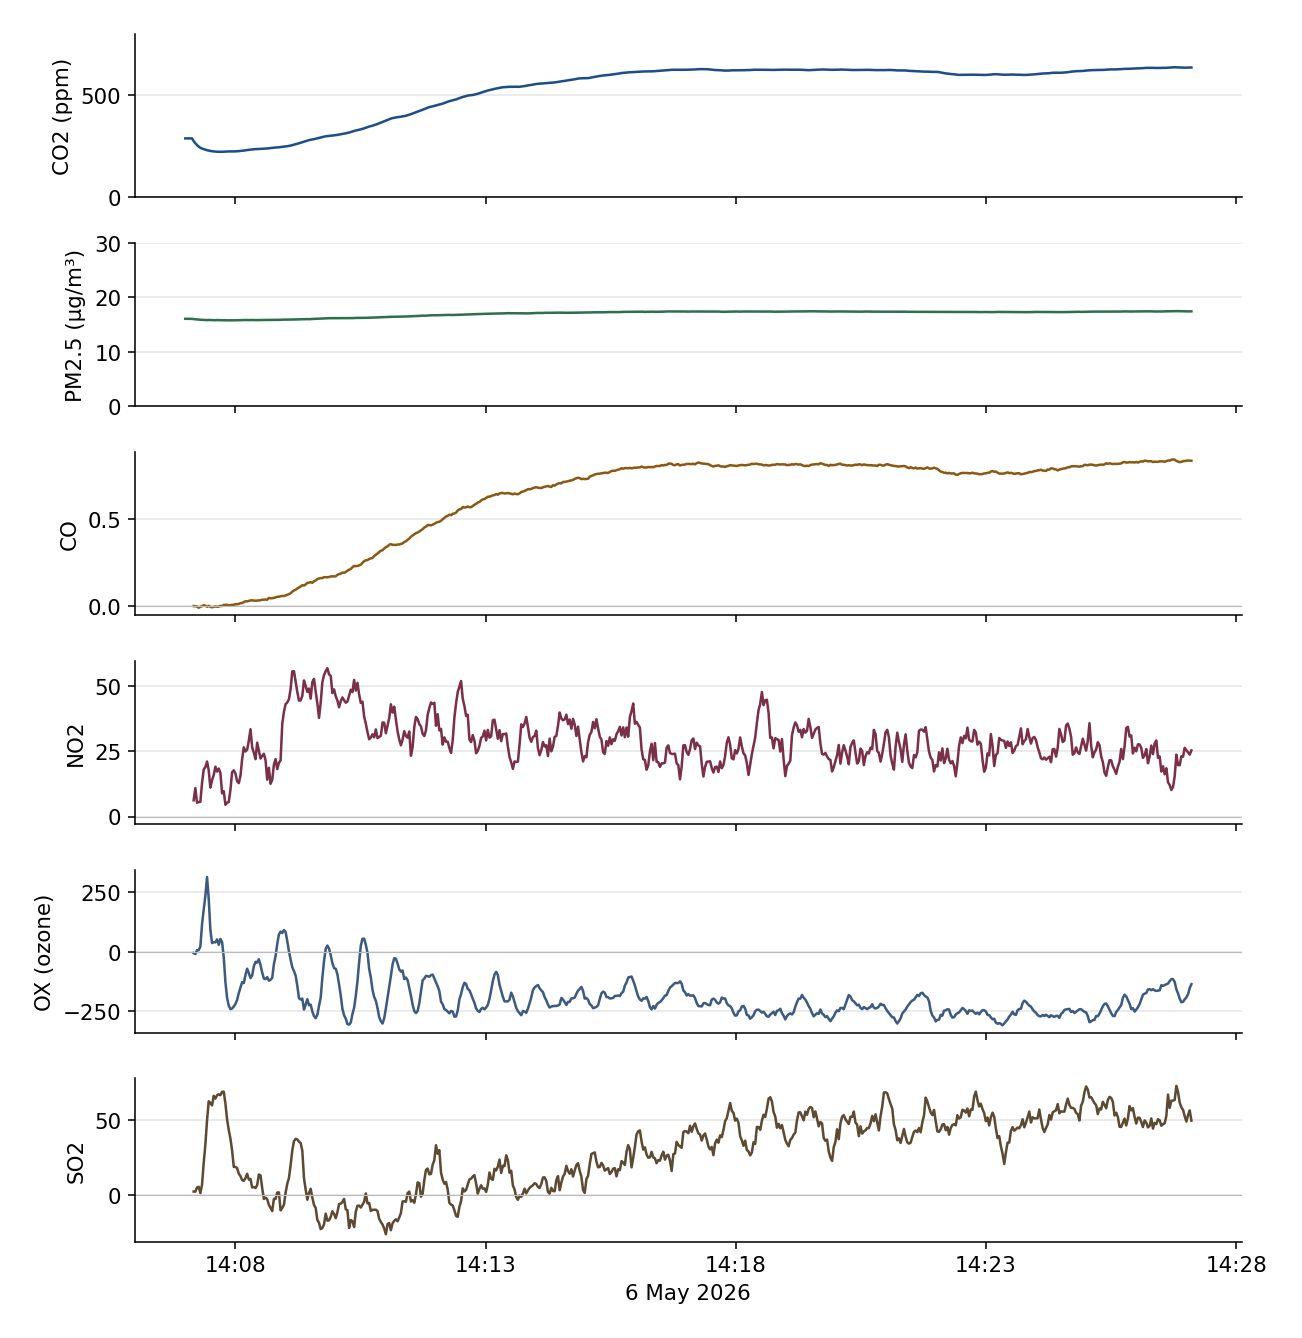
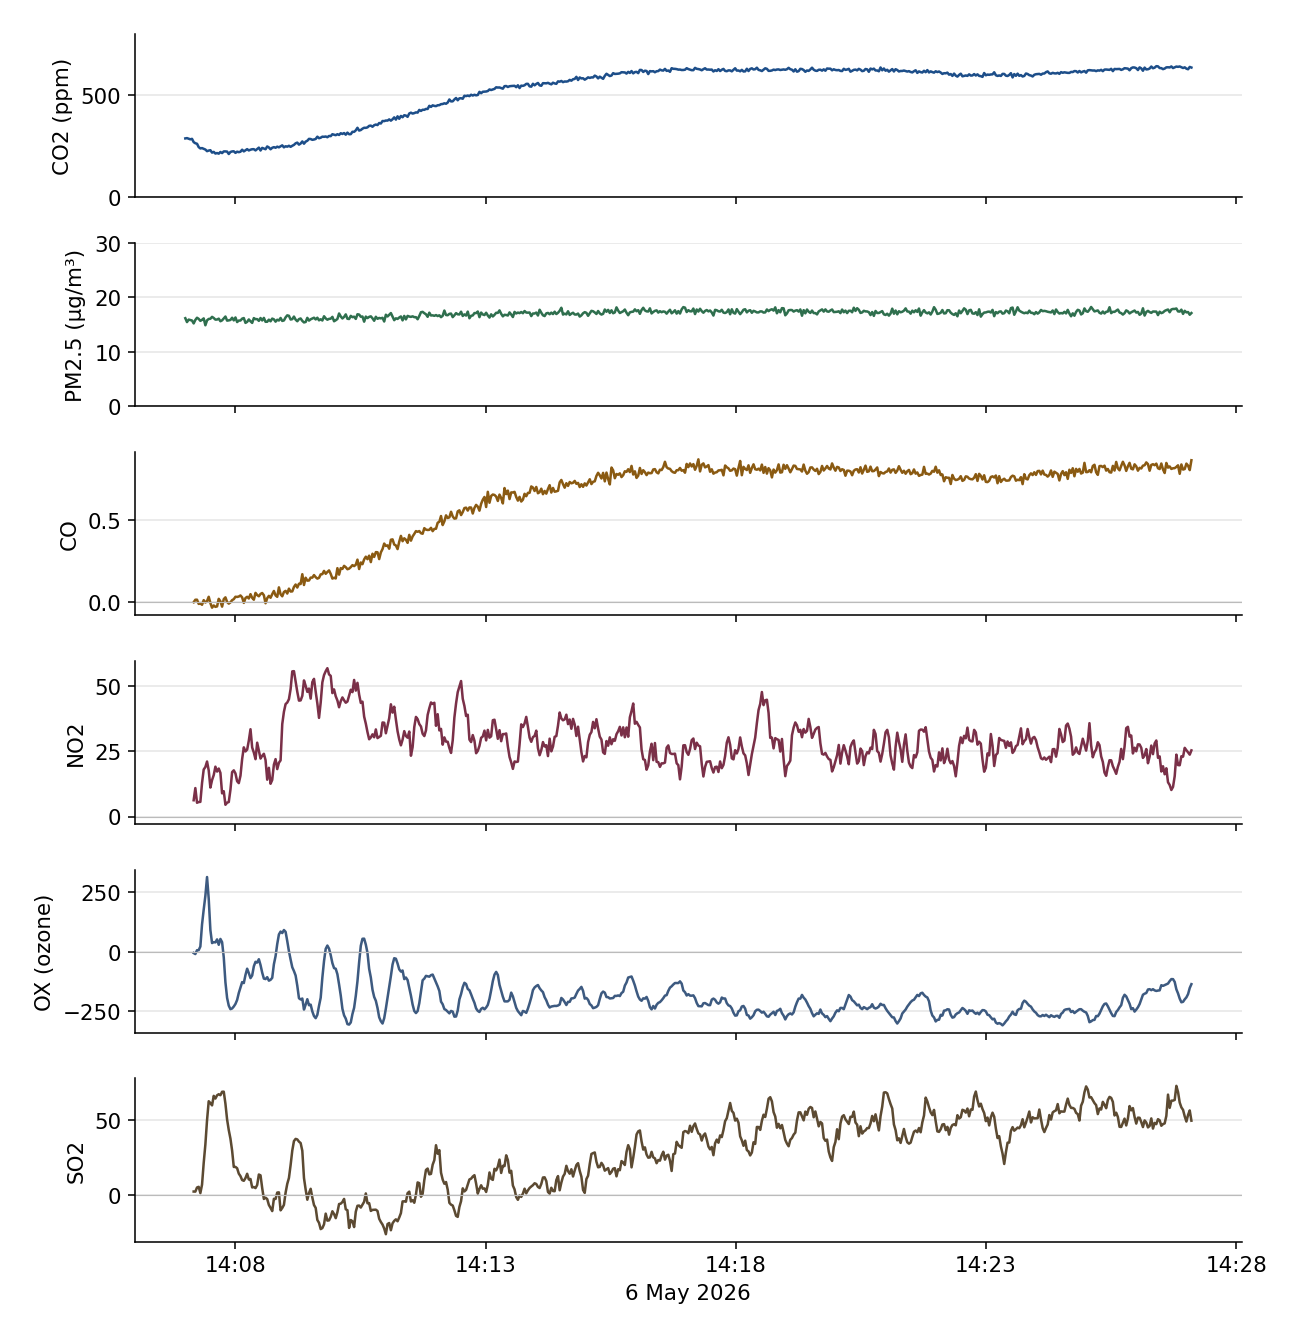
b

diff --git a/_portfolio/0a-air.md b/_portfolio/0a-air.md
@@ -88,7 +88,7 @@ A Blackpill has a diode so that an external 5 V supply cannot feed back into the
 
 The clock in the log was stuck in year 2000. Spacing between samples is unchanged, and the first sample is placed at 14:07 on 6 May 2026.
 
-CO2 from the SCD30 rose from about 230 ppm and leveled near 630 ppm. PM2.5 from the SPS30 stayed near 16 µg/m³. CO, NO2, OX, and SO2 are the values stored in the log, each on its own scale. The file does not name their units. OX sits below zero for most of the run, so that zero is not a finished calibration.
+CO2 from the SCD30 rose from about 230 ppm and leveled near 630 ppm. PM2.5 from the SPS30 stayed near 16 µg/m³. CO, NO2, OX, and SO2 are each on their own scale. The file does not name their units. OX sits below zero for most of the run, so that zero is not a finished calibration.
 
 ---
 
